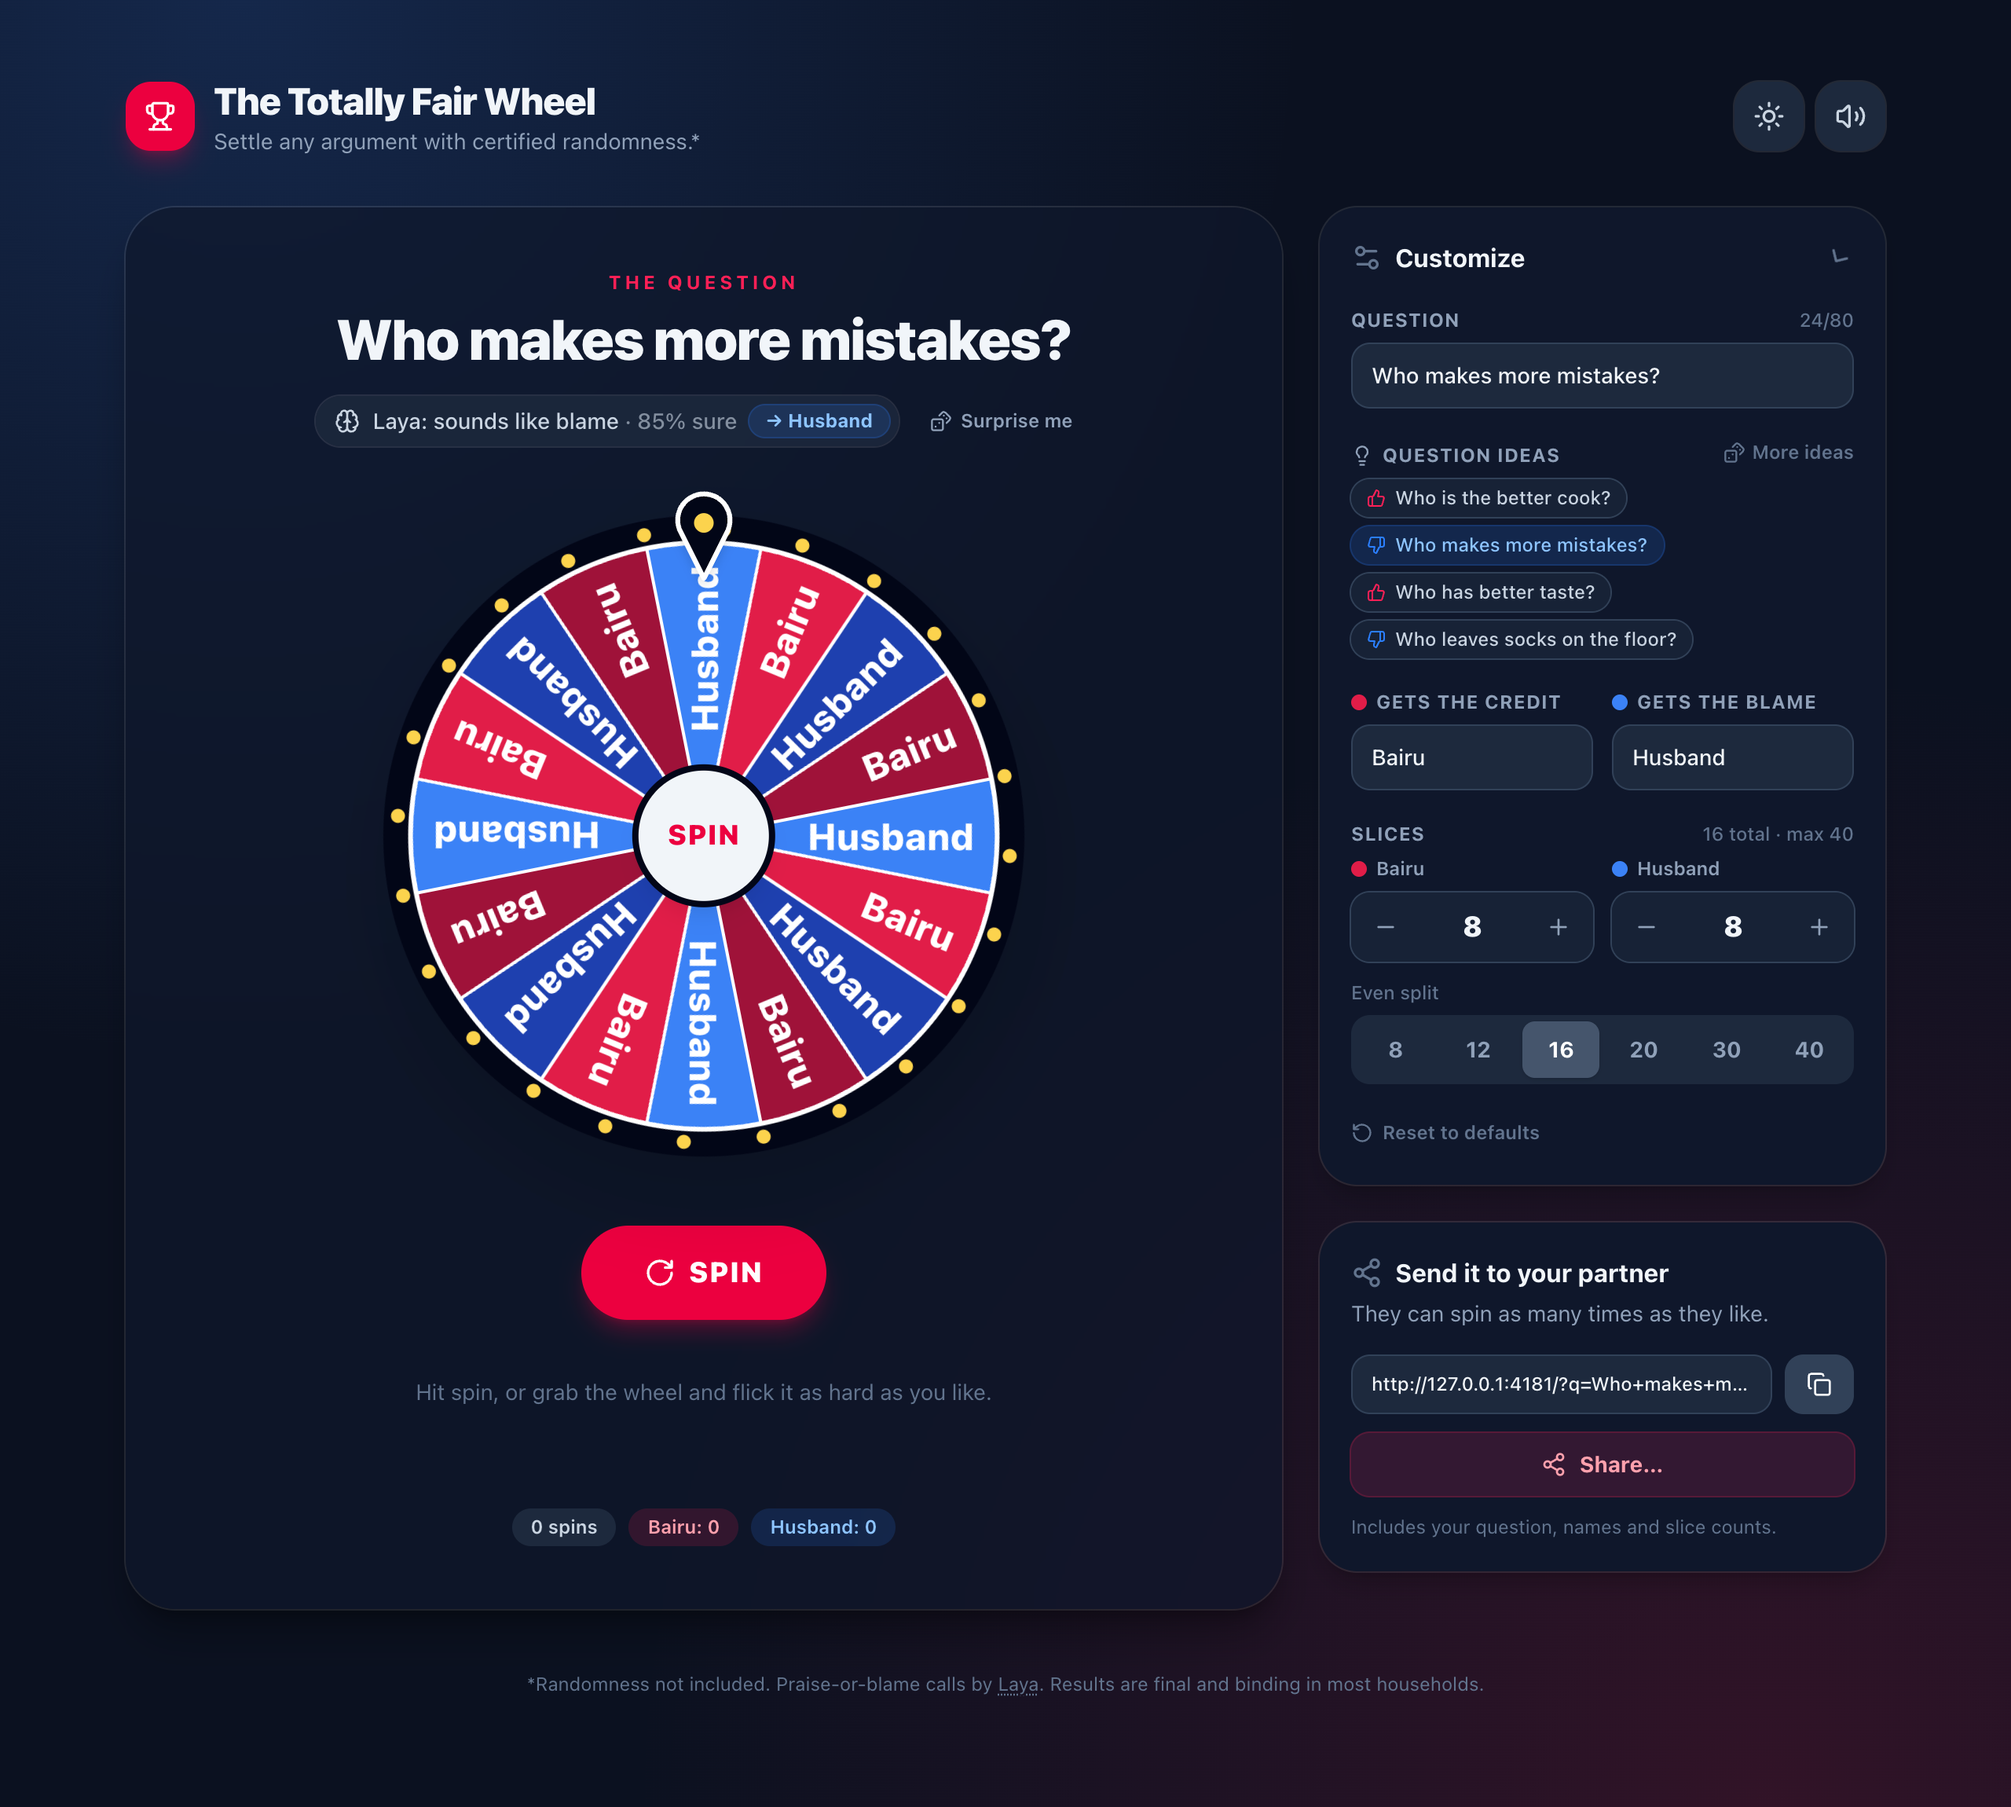
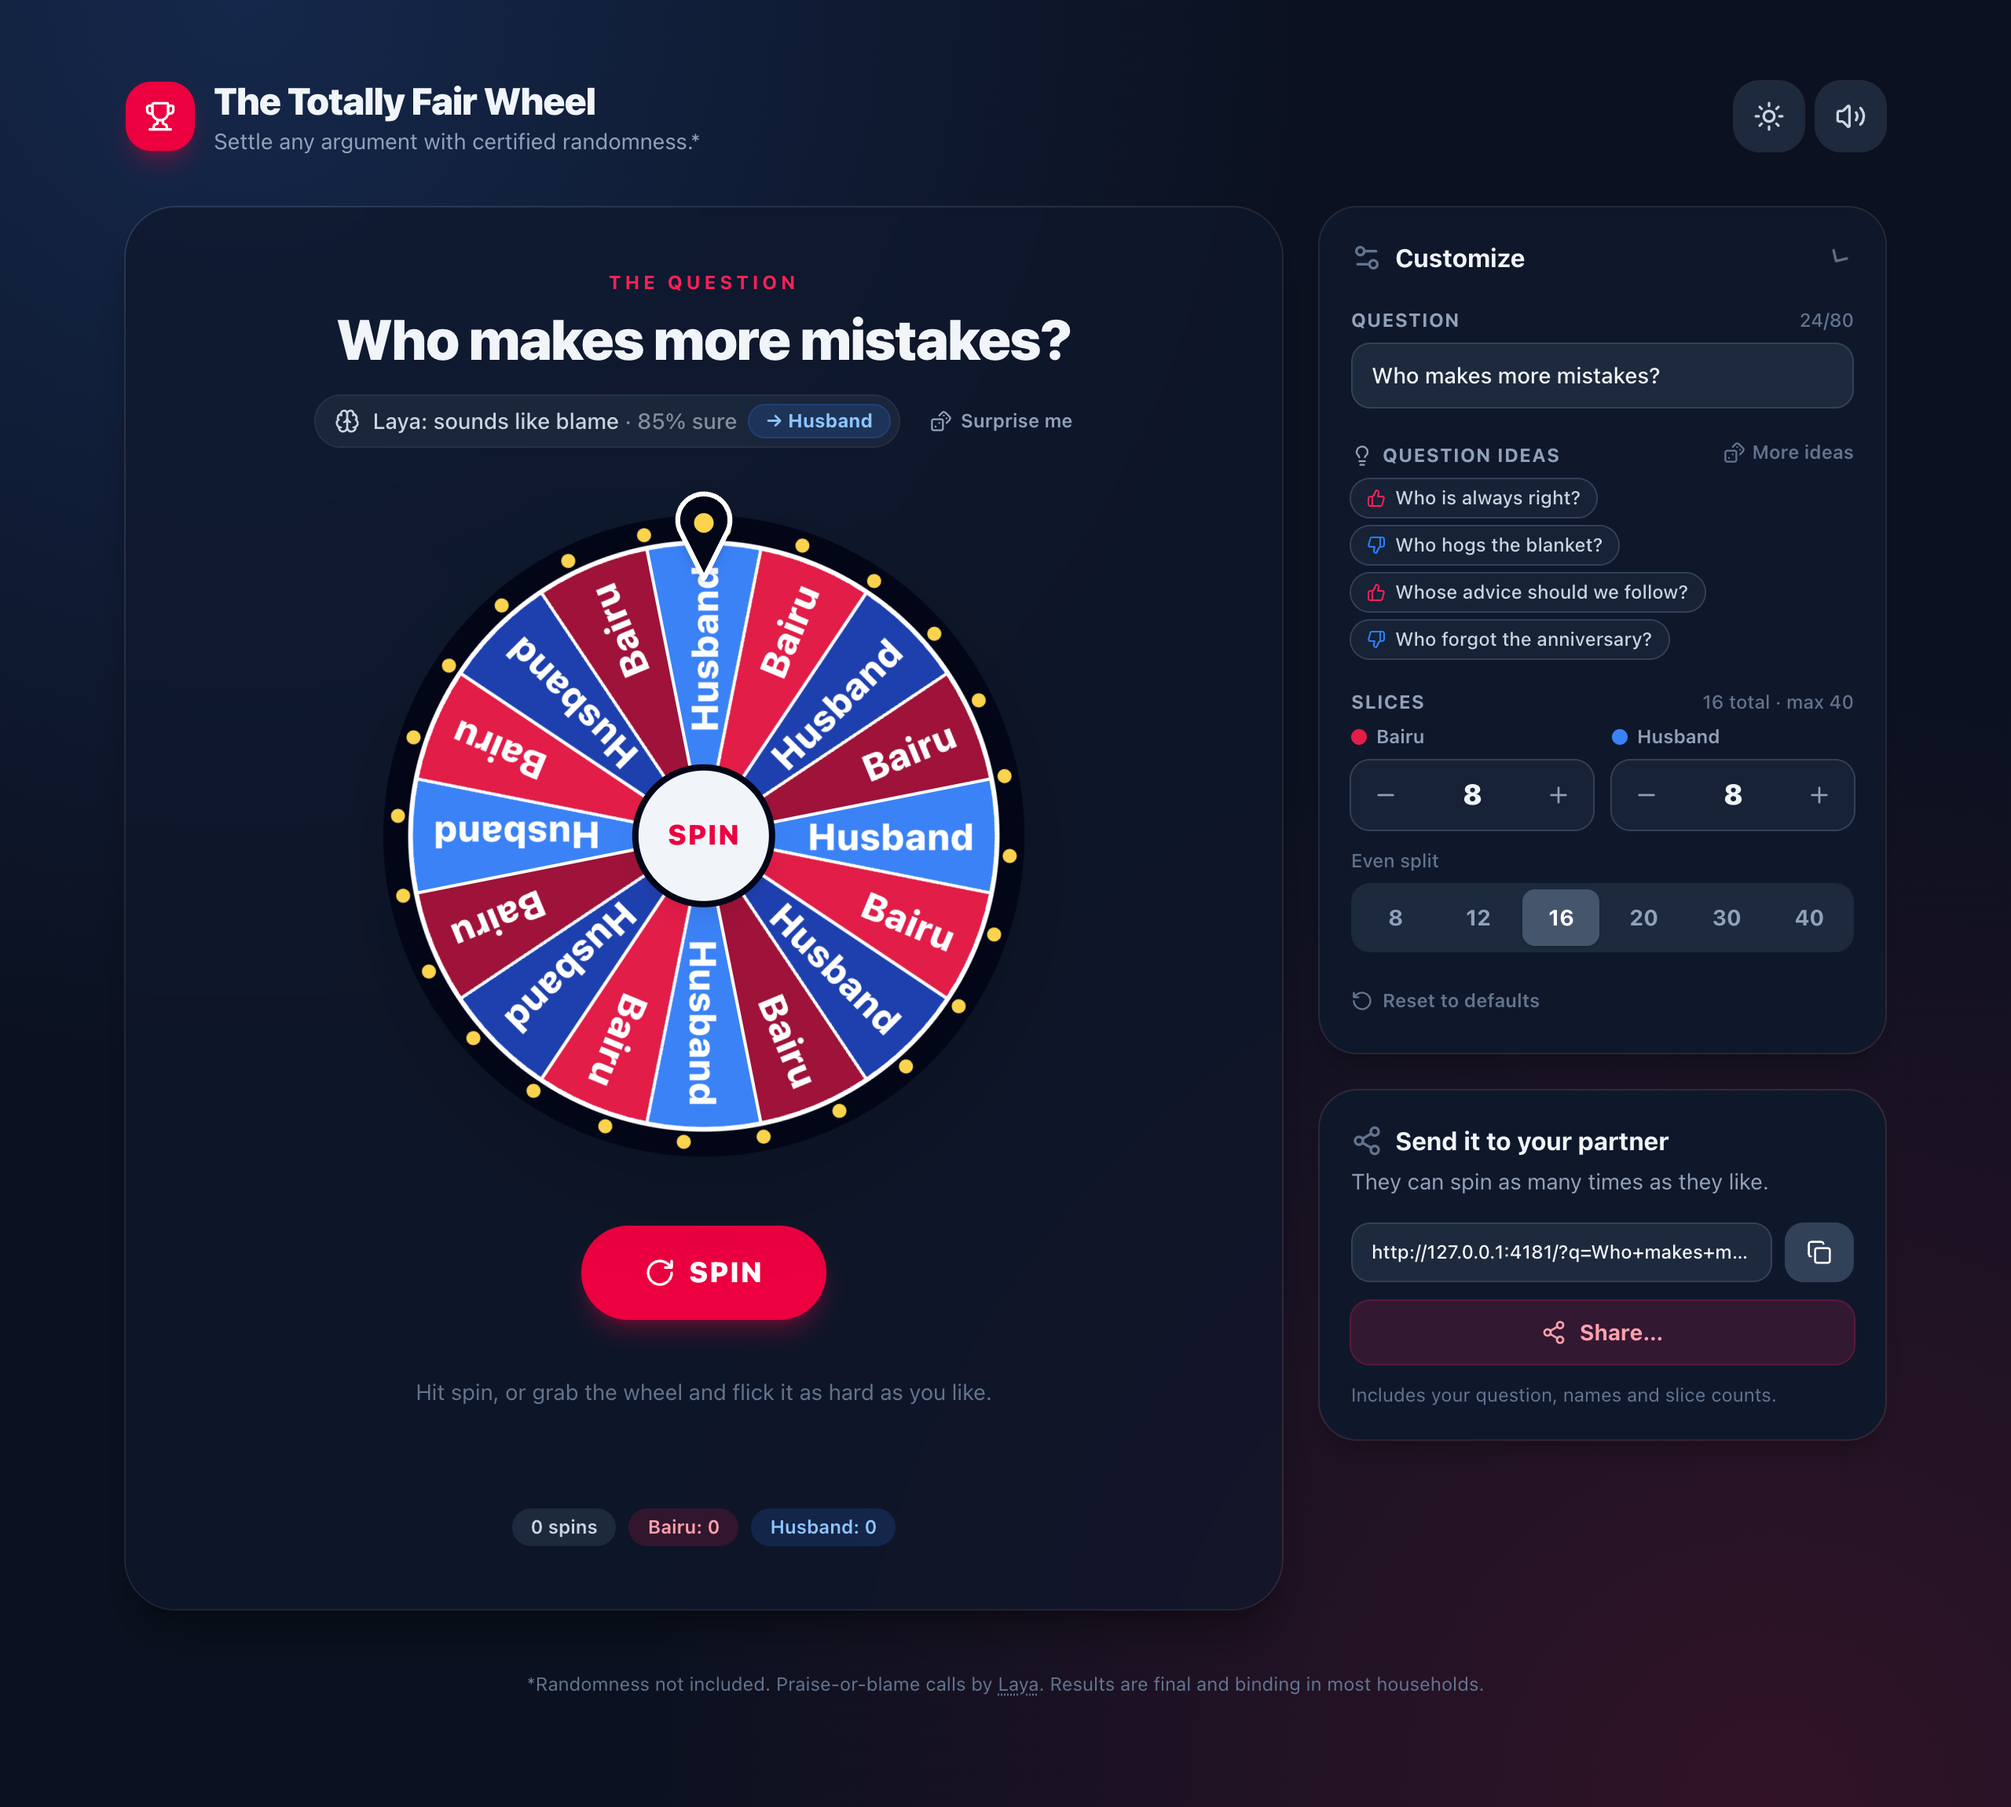
Fix the names: Bairu always gets the credit, Husband the blame
Removed the "Gets the credit / Gets the blame" name boxes and the w=/l=
share-link params (old links that set them are ignored), so the satire
only ever runs one way. README and screenshots updated.

diff --git a/src/RiggedWheel.jsx b/src/RiggedWheel.jsx
@@ -49,7 +49,6 @@ const MAX_SLICES = 40;
 const QUICK_PICKS = [8, 12, 16, 20, 30, 40]; // split evenly between the two names
 const IDEAS_SHOWN = 2; // question ideas shown per kind
 const MAX_QUESTION = 80;
-const MAX_NAME = 20;
 const PALETTE = {
   good: ['#e11d48', '#9f1239'],
   bad: ['#3b82f6', '#1e40af'],
@@ -324,11 +323,9 @@ function readParams() {
 
   return {
     question: text('q', MAX_QUESTION, DEFAULTS.question),
-    good: text('w', MAX_NAME, DEFAULTS.good),
-    bad: text('l', MAX_NAME, DEFAULTS.bad),
     goodCount,
     badCount,
-    fromLink: ['q', 'w', 'l'].some((k) => p.has(k)),
+    fromLink: p.has('q'),
   };
 }
 
@@ -349,8 +346,6 @@ function initialTheme() {
 export default function RiggedWheel() {
   const [initial] = useState(readParams);
   const [question, setQuestion] = useState(initial.question);
-  const [good, setGood] = useState(initial.good);
-  const [bad, setBad] = useState(initial.bad);
   const [goodCount, setGoodCount] = useState(initial.goodCount);
   const [badCount, setBadCount] = useState(initial.badCount);
   const [ideas, setIdeas] = useState(() => pickIdeas());
@@ -387,8 +382,9 @@ export default function RiggedWheel() {
 
   const shownQuestion = question.trim() || DEFAULTS.question;
   const questionKey = shownQuestion.toLowerCase().replace(/\s+/g, ' ');
-  const goodName = good.trim() || DEFAULTS.good;
-  const badName = bad.trim() || DEFAULTS.bad;
+  // Fixed on purpose: praise always goes to the same person, blame to the other.
+  const goodName = DEFAULTS.good;
+  const badName = DEFAULTS.bad;
 
   const liveDecision = decide({
     layaP: laya.status === 'ok' && laya.key === questionKey ? laya.p : null,
@@ -410,13 +406,11 @@ export default function RiggedWheel() {
   const shareUrl = useMemo(() => {
     const params = new URLSearchParams({
       q: shownQuestion,
-      w: goodName,
-      l: badName,
       nw: String(goodCount),
       nl: String(badCount),
     });
     return `${window.location.origin}${window.location.pathname}?${params}`;
-  }, [shownQuestion, goodName, badName, goodCount, badCount]);
+  }, [shownQuestion, goodCount, badCount]);
 
   useLayoutEffect(() => {
     wheelRef.current.style.transform = `rotate(${rotationRef.current}deg)`;
@@ -763,8 +757,6 @@ export default function RiggedWheel() {
 
   function resetSettings() {
     askQuestion(DEFAULTS.question);
-    setGood(DEFAULTS.good);
-    setBad(DEFAULTS.bad);
     setGoodCount(DEFAULTS.goodCount);
     setBadCount(DEFAULTS.badCount);
   }
@@ -1091,29 +1083,6 @@ export default function RiggedWheel() {
                         </button>
                       ))}
                     </div>
-                  </div>
-
-                  <div className="grid grid-cols-2 gap-3">
-                    <Field t={t} label={<Dot color={PALETTE.good[0]}>Gets the credit</Dot>}>
-                      <input
-                        value={good}
-                        maxLength={MAX_NAME}
-                        disabled={spinning}
-                        onChange={(e) => setGood(e.target.value)}
-                        placeholder={DEFAULTS.good}
-                        className={inputClass}
-                      />
-                    </Field>
-                    <Field t={t} label={<Dot color={PALETTE.bad[0]}>Gets the blame</Dot>}>
-                      <input
-                        value={bad}
-                        maxLength={MAX_NAME}
-                        disabled={spinning}
-                        onChange={(e) => setBad(e.target.value)}
-                        placeholder={DEFAULTS.bad}
-                        className={inputClass}
-                      />
-                    </Field>
                   </div>
 
                   <div>

diff --git a/README.md b/README.md
@@ -68,8 +68,9 @@ Or [write your own](https://rehmanalimomin.github.io/rigged-wheel/). The app sho
 - 👆 **Grab it and flick it.** Flick it either way, as hard as you want. A harder flick means a longer spin, but it lands on the same slice.
 - 🔊 **Sound, made live in the browser.** A tick for every slice that passes, a fanfare for praise and a sad trombone for blame. No audio files.
 - 🎉 **Confetti** for praise, and 🤦🙃😬 raining down for blame. Both are switched off for people who turn on reduced motion.
-- 🎛 **Set it up your way.** Change both names and how many slices each person gets (up to 40 in total). It starts at an even 8 and 8, and the even-split buttons (8 to 40) keep it 50/50. Go 15 to 1 if you want the original meme look.
-- 🔗 **Share links** carry every setting. On phones, **Share** opens the phone's own share menu.
+- 🎛 **Set it up your way.** Choose how many slices each person gets (up to 40 in total). It starts at an even 8 and 8, and the even-split buttons (8 to 40) keep it 50/50. Go 15 to 1 if you want the original meme look.
+- 🔒 **Bairu always gets the credit, and Husband always gets the blame.** The names are fixed, and a share link can't swap them.
+- 🔗 **Share links** carry the question and slice counts. On phones, **Share** opens the phone's own share menu.
 - 🌗 **Light and dark mode.** It starts out matching your device and remembers your choice.
 
 ## 🧠 How it decides
@@ -132,7 +133,6 @@ Each frame moves along `from → to` using `1 − (1 − t)⁴`. That curve star
 | Param | What it sets | Default |
 | :-- | :-- | :-- |
 | `q` | The question | `Who is always right?` |
-| `w` / `l` | Who gets the credit / who gets the blame | `Bairu` / `Husband` |
 | `nw` / `nl` | Number of slices for the credit / blame person (up to 40 in total) | `8` / `8` |
 
 ## 🖥 Hosting Laya
